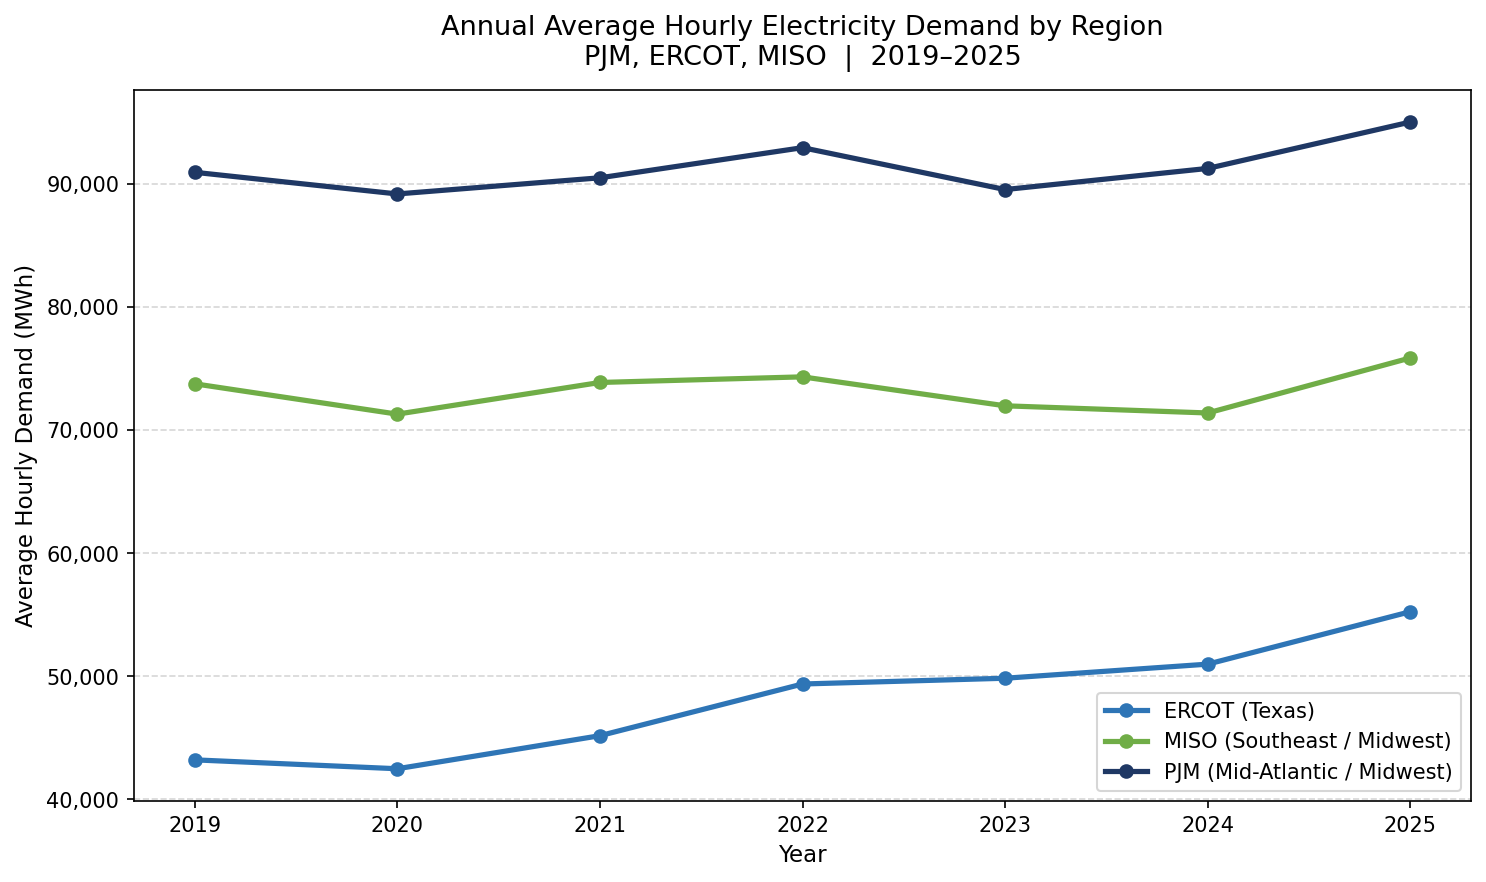
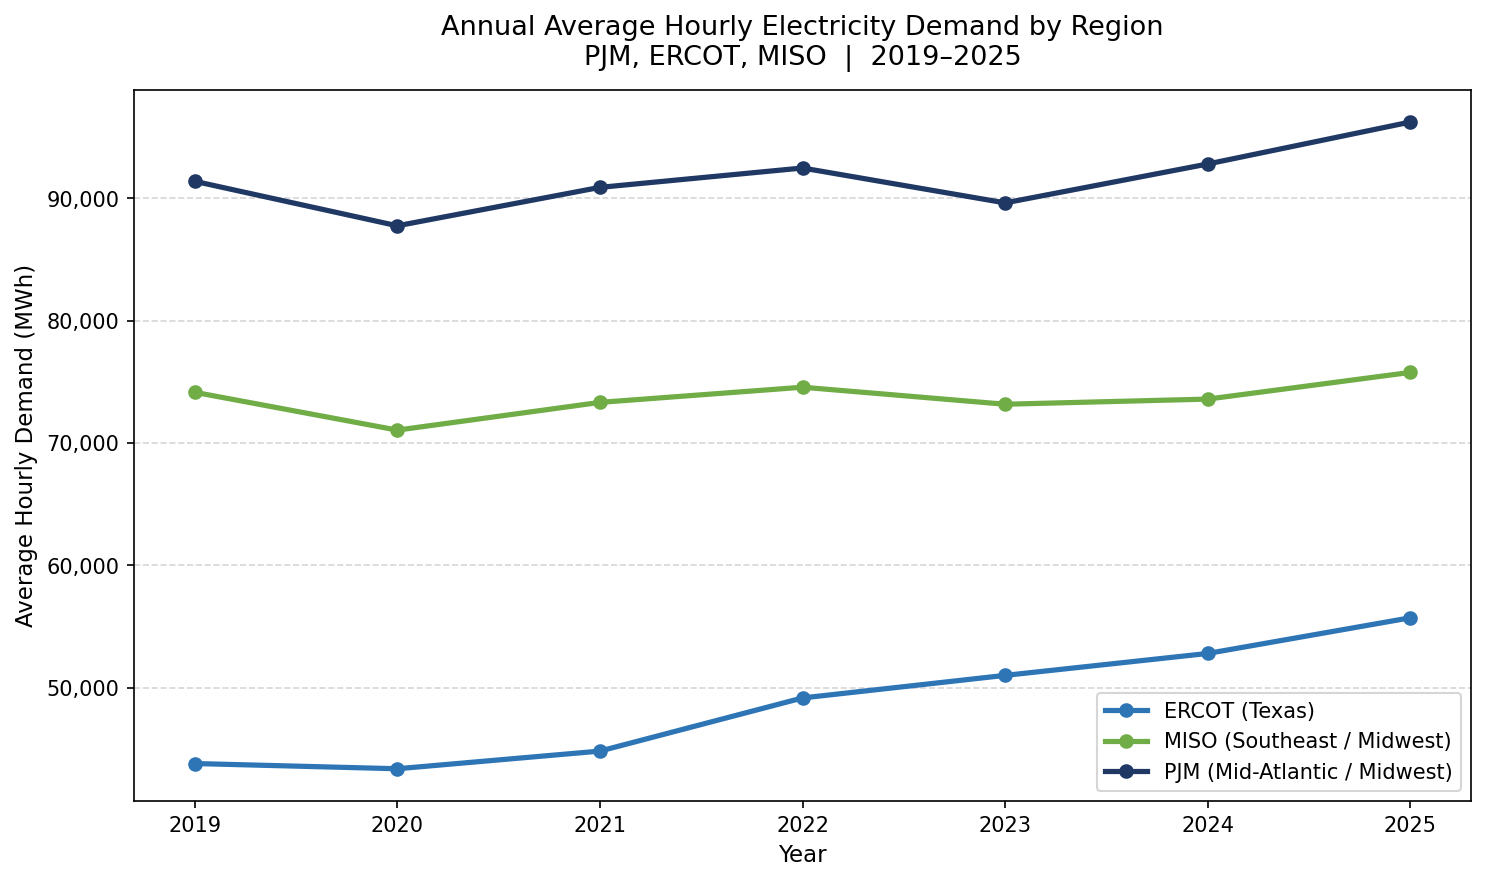
feat: clean 184k row demand pull, updated charts, demand-only filter

diff --git a/scripts/pull_eia_demand.py b/scripts/pull_eia_demand.py
@@ -11,8 +11,8 @@ YEARS = list(range(2019, 2026))
 BASE_URL = "https://api.eia.gov/v2/electricity/rto/region-data/data/"
 
 def pull_region_year(region, year):
-    start = f"{year}-01-01"
-    end = f"{year}-12-31"
+    start = f"{year}-01-01T00"
+    end = f"{year}-12-31T23"
     all_records = []
     offset = 0
     page_size = 5000
@@ -22,6 +22,7 @@ def pull_region_year(region, year):
             "frequency": "hourly",
             "data[0]": "value",
             "facets[respondent][]": region,
+            "facets[type][]": "D",
             "start": start,
             "end": end,
             "length": page_size,
@@ -36,11 +37,11 @@ def pull_region_year(region, year):
                 time.sleep(30)
                 continue
             records = data["response"]["data"]
-            all_records.extend(records)
             total = int(data["response"]["total"])
-            offset += page_size
-            print(f"  {region} {year}: pulled {min(offset, total)}/{total} records")
-            if offset >= total:
+            all_records.extend(records)
+            offset += len(records)
+            print(f"  {region} {year}: pulled {offset}/{total} records")
+            if offset >= total or len(records) == 0:
                 break
             time.sleep(0.5)
         except Exception as e:

diff --git a/README.md b/README.md
@@ -50,7 +50,7 @@ A thorough search confirms no existing paper uses interconnection queue filings 
 
 | Dataset | Source | Status |
 |---|---|---|
-| EIA Form 930 hourly demand | eia.gov/opendata | ✅ 153,587 rows pulled (2019–2025) |
+| EIA Form 930 hourly demand | eia.gov/opendata | ✅ 184,102 rows pulled (2019–2025) |
 | UMD PJM Queue 2008–2020 | UMD Economics Dept. (NSF-funded) | ✅ In hand |
 | LBL Queued Up 2025 | Lawrence Berkeley National Lab | ✅ In hand |
 | NOAA Weather (HDD/CDD) | NCEI Climate Data Online API | Pending |
